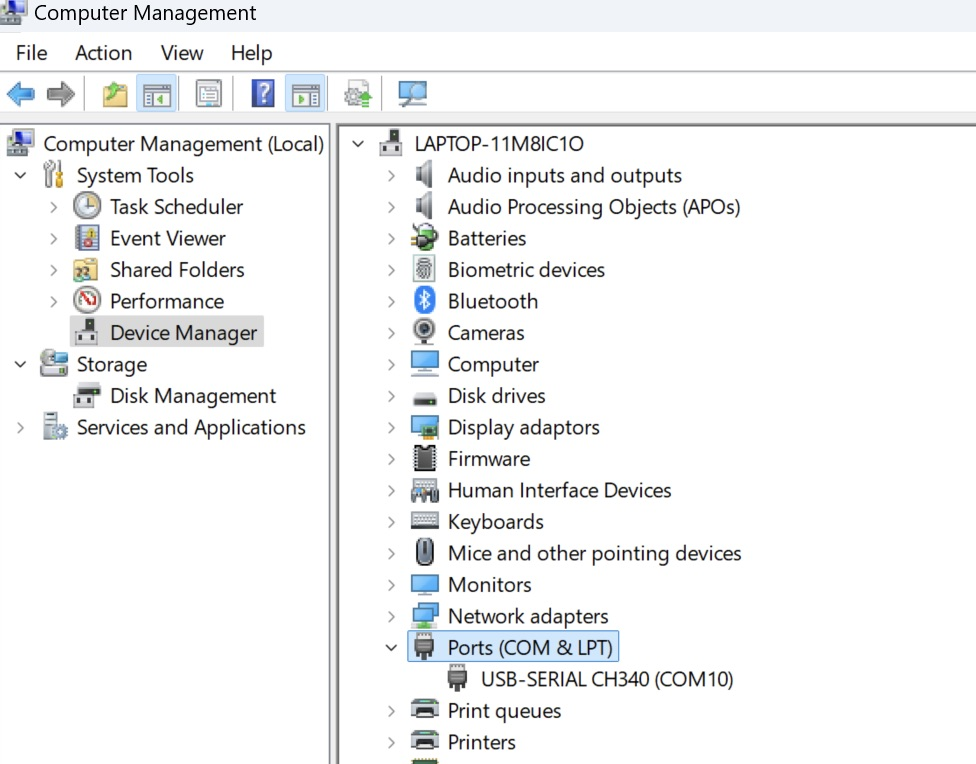
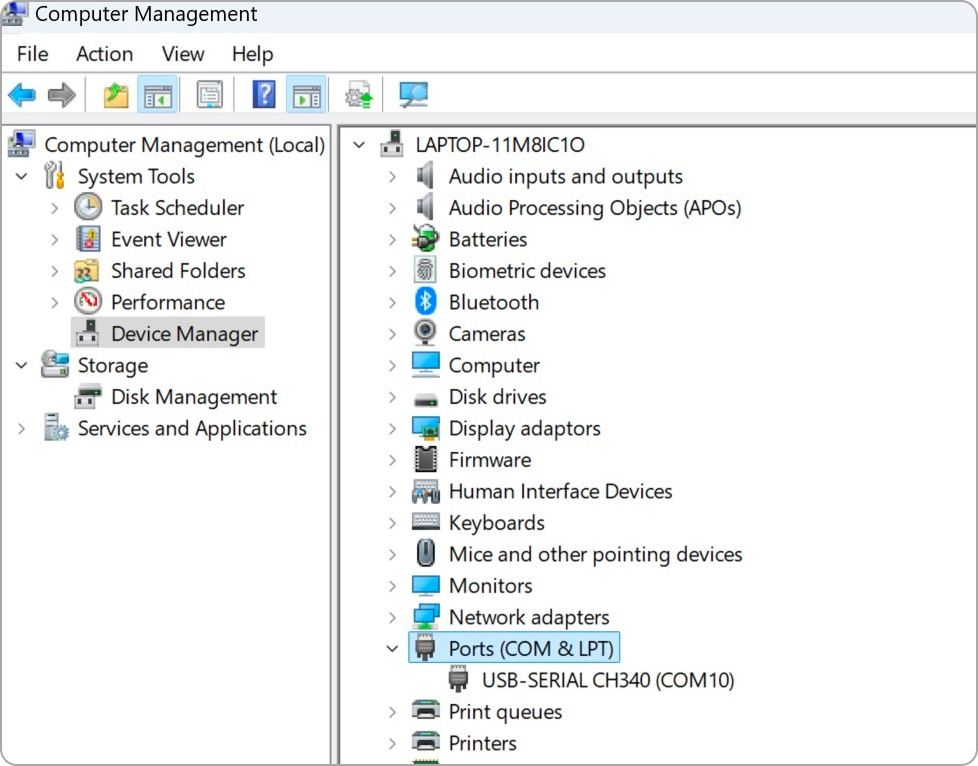
fix: serial-console image border

diff --git a/docs/sidebars.js b/docs/sidebars.js
@@ -113,7 +113,7 @@ const sidebars = {
           label: "Mechanical Files",
           items: [
             "comet/resources/mechanical-files/mecha-comet",
-            "comet/resources/mechanical-files/extensions",
+            "comet/resources/mechanical-files/comet-extensions"
           ],
         },
       ],
